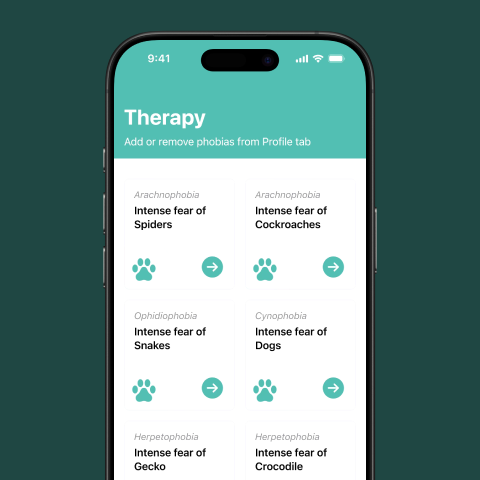
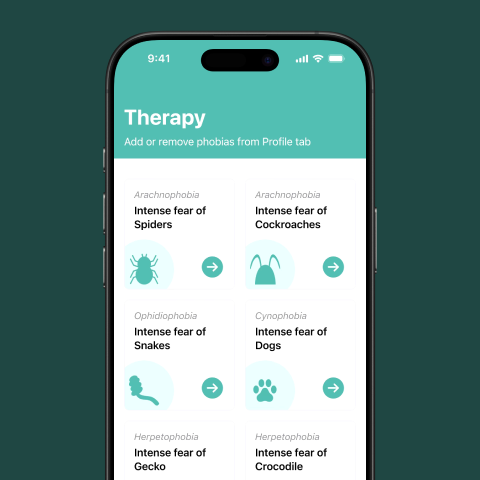
fix: image and copywriting

Changed region(s): [[0.25, 0.5312, 0.3438, 0.5938], [0.5, 0.5312, 0.5938, 0.5938], [0.25, 0.7812, 0.3438, 0.8438]]

diff --git a/src/components/widgets/home/benefit-home.tsx b/src/components/widgets/home/benefit-home.tsx
@@ -23,9 +23,10 @@ const BenefitHome = () => {
       >
         <Image
           src={useColorModeValue(
-            "/assets/images/light_illustration_benefit_reflection.png",
-            "/assets/images/dark_illustration_benefit_reflection.png"
+            "/assets/images/light_illustration_benefit_therapy.png",
+            "/assets/images/dark_illustration_benefit_therapy.png"
           )}
+          alt="Therapy image illustration"
         />
         <Stack maxWidth={"35rem"}>
           <HStack align={"center"} gapX={"1rem"}>
@@ -34,6 +35,7 @@ const BenefitHome = () => {
                 "/assets/images/light_benefit_therapy.svg",
                 "/assets/images/dark_benefit_therapy.svg"
               )}
+              alt="Therapy image icon"
             />
             <Heading color={useColorModeValue("#55B5AB", "#94D1CB")}>
               Therapy
@@ -42,7 +44,7 @@ const BenefitHome = () => {
           <Heading size={"4xl"}>
             Choose from the variety of therapy options we offer
           </Heading>
-          <Text>Select from Among 7 Phobias to Work On</Text>
+          <Text>Select from Among 8 Phobias to Work On</Text>
         </Stack>
       </Flex>
       <Flex
@@ -58,6 +60,7 @@ const BenefitHome = () => {
                 "/assets/images/light_benefit_assessment.svg",
                 "/assets/images/dark_benefit_assessment.svg"
               )}
+              alt="Assessment image icon"
             />
             <Heading color={useColorModeValue("#55B5AB", "#94D1CB")}>
               Assessment
@@ -76,6 +79,7 @@ const BenefitHome = () => {
             "/assets/images/light_illustration_benefit_assessment.png",
             "/assets/images/dark_illustration_benefit_assessment.png"
           )}
+          alt="Assessment image illustration"
         />
       </Flex>
       <Box height={"5rem"} />
@@ -90,6 +94,7 @@ const BenefitHome = () => {
             "/assets/images/light_illustration_benefit_reflection.png",
             "/assets/images/dark_illustration_benefit_reflection.png"
           )}
+          alt="Reflection image illustration"
         />
         <Stack maxWidth={"35rem"}>
           <HStack align={"center"} gapX={"1rem"}>
@@ -98,6 +103,7 @@ const BenefitHome = () => {
                 "/assets/images/light_benefit_reflection.svg",
                 "/assets/images/dark_benefit_reflection.svg"
               )}
+              alt="Reflection image icon"
             />
             <Heading color={useColorModeValue("#55B5AB", "#94D1CB")}>
               Journaling
@@ -121,6 +127,7 @@ const BenefitHome = () => {
                 "/assets/images/light_benefit_log.svg",
                 "/assets/images/dark_benefit_log.svg"
               )}
+              alt="Log image icon"
             />
             <Heading color={useColorModeValue("#55B5AB", "#94D1CB")}>
               Session Logs
@@ -139,6 +146,7 @@ const BenefitHome = () => {
             "/assets/images/light_illustration_benefit_log.png",
             "/assets/images/dark_illustration_benefit_log.png"
           )}
+          alt="Log image illustration"
         />
       </Flex>
     </Stack>

diff --git a/src/components/widgets/home/feature-home.tsx b/src/components/widgets/home/feature-home.tsx
@@ -23,8 +23,8 @@ const FeatureHome = () => {
           )}
           alt="Phobia Count"
         />
-        <Heading>7 in 1</Heading>
-        <Text>FEAR Features Seven of the Most Common Phobias</Text>
+        <Heading>8 in 1</Heading>
+        <Text>FEAR Features Eight of the Most Common Phobias</Text>
       </Stack>
       <Stack maxWidth={"20rem"} align={"center"} textAlign={"center"}>
         <Image
